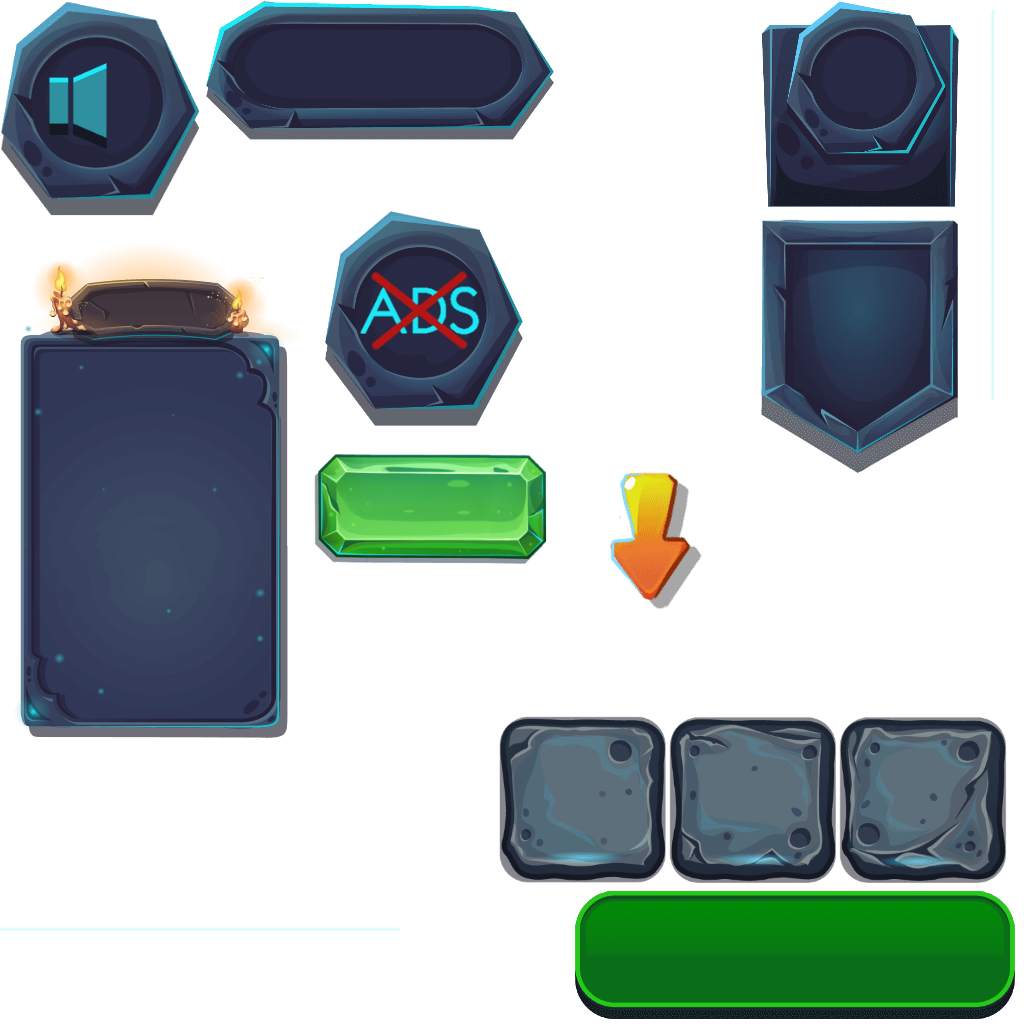
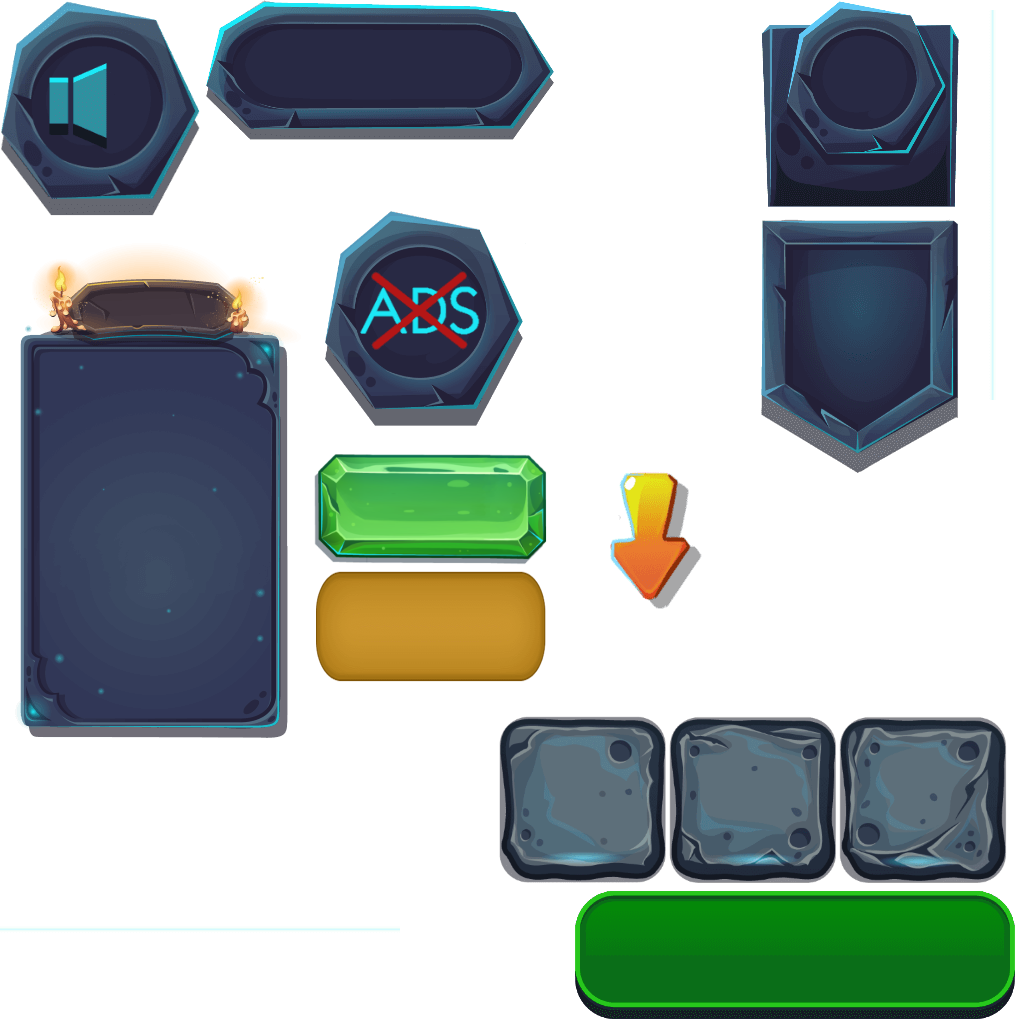
continue work with update tasks

Changed region(s): [[0.2812, 0.5312, 0.5312, 0.6875]]

diff --git a/core/src/com/merge/game/scenes/SceneGame.java b/core/src/com/merge/game/scenes/SceneGame.java
@@ -21,6 +21,8 @@ import com.merge.game.resources.GameSound;
 import com.merge.game.resources.textures.TextureItems;
 import com.merge.game.resources.textures.Textures;
 
+import java.util.ArrayList;
+
 public class SceneGame extends Scene {
 
     private static final int GRID_COUNT_WIDTH = 9;
@@ -194,20 +196,22 @@ public class SceneGame extends Scene {
     }
 
     private void updateTaskPanel(){
+
         for (int i = 0; i < _leftPanel.getTasks().size(); i++) {
+
             TaskArea area = _leftPanel.getTasks().get(i);
 
-            //кнопка неактивна
-            area.inactiveButton();
+            area.update();
+            ArrayList <Task> addedTasks = area.getTaskPanel().getAddedTasks();
 
             //подсчёт количества подходящих для задания итемсов
             for (int j = 0; j < GRID_COUNT_WIDTH; j++) {
                 for (int k = 0; k < GRID_COUNT_HEIGHT; k++) {
                     if(_items[j][k] != null && _items[j][k].canBeMerge()){
-                        for (int l = 0; l < area.getTaskPanel().getAddedTasks().size(); l++) {
-                            if(area.getTaskPanel().getAddedTasks().get(l).exists(_items[j][k])){
-                                area.getTaskPanel().getAddedTasks().get(l).existsCount++;
-                                area.getTaskPanel().getAddedTasks().get(l).itemsToRemove.add((_items[j][k]);
+                        for (int l = 0; l < addedTasks.size(); l++) {
+                            if(addedTasks.get(l).exists(_items[j][k])){
+                                addedTasks.get(l).existsCount++;
+                                addedTasks.get(l).itemsToRemove.add((_items[j][k]));
                             }
                         }
                     }
@@ -215,8 +219,8 @@ public class SceneGame extends Scene {
             }
 
             //проверка количества имеющихся на поле итемсов
-            for (int j = 0; j < area.getTaskPanel().getAddedTasks().size(); j++) {
-                if(area.getTaskPanel().getAddedTasks().get(j).existsCount >= area.getTaskPanel().getAddedTasks().get(j).count){
+            for (int j = 0; j < addedTasks.size(); j++) {
+                if(addedTasks.get(j).existsCount >= addedTasks.get(j).count){
                     area.inactiveButton();
                 }else {
                     area.activeButton();
@@ -225,8 +229,8 @@ public class SceneGame extends Scene {
 
             if(area.buttonIsPressed()){
                 //убираем с поля итемсы из задания
-                for (int j = 0; j < area.getTaskPanel().getAddedTasks().size(); j++) {
-                    Task currentTask = area.getTaskPanel().getAddedTasks().get(i);
+                for (int j = 0; j < addedTasks.size(); j++) {
+                    Task currentTask = addedTasks.get(i);
                     for (int k = 0; k < currentTask.count; k++) {
                         GridObject itemToRemove = currentTask.itemsToRemove.get(j);
                         removeChild(itemToRemove);
@@ -235,7 +239,7 @@ public class SceneGame extends Scene {
                 }
 
                 //меняем задание
-                generateTask();
+                area.generateTask();
 
                 //подсчитываем баллы
                 //scoreCount ++;

diff --git a/core/src/com/merge/game/objects/gui/elements/panels/TaskArea.java b/core/src/com/merge/game/objects/gui/elements/panels/TaskArea.java
@@ -3,12 +3,13 @@ package com.merge.game.objects.gui.elements.panels;
 import com.merge.game.objects.DisplayObject;
 import com.merge.game.objects.game_elements.Task;
 import com.merge.game.objects.gui.elements.Button;
+import com.merge.game.objects.gui.elements.buttons.TaskButton;
 import com.merge.game.resources.textures.TextureItems;
 
 public class TaskArea extends DisplayObject {
 
     TaskPanel taskPanel;
-    Button taskButton;
+    TaskButton taskButton;
 
     public void init(int count) {
         setSizeOfParent();
@@ -26,6 +27,18 @@ public class TaskArea extends DisplayObject {
         return taskButton;
     }
 
+    public void generateTask(){
+        initTaskPanel();
+    }
+
+    public void update(){
+        for (int i = 0; i < this.getTaskPanel().getAddedTasks().size(); i++) {
+            this.getTaskPanel().getAddedTasks().get(i).existsCount = 0;
+            this.getTaskPanel().getAddedTasks().get(i).itemsToRemove.clear();
+        }
+        inactiveButton();
+    }
+
     private void initTaskPanel() {
         taskPanel = new TaskPanel(TextureItems.taskField);
         addChild(taskPanel);
@@ -33,19 +46,17 @@ public class TaskArea extends DisplayObject {
     }
 
     private void initTaskButton() {
-        taskButton = new Button(TextureItems.taskButton);
+        taskButton = new TaskButton();
         addChild(taskButton);
-        taskButton.scaleToFit(0.25f, 0.25f);
-        taskButton.setCenterCoeff(0.5f, 0.5f);
-        taskButton.setY(taskPanel.y + taskPanel.getHeight() + 0.05f); //TODO исправить на coeff
+        taskButton.init();
     }
 
     public void inactiveButton() {
-        taskButton.setDisabled(true);
+        taskButton.setDisabled();
     }
 
     public void activeButton() {
-        taskButton.setDisabled(false);
+        taskButton.setAbled();
     }
 
     public boolean buttonIsPressed() {

diff --git a/core/src/com/merge/game/objects/gui/elements/buttons/TaskButton.java b/core/src/com/merge/game/objects/gui/elements/buttons/TaskButton.java
@@ -1,0 +1,30 @@
+package com.merge.game.objects.gui.elements.buttons;
+
+import com.merge.game.objects.gui.elements.Button;
+import com.merge.game.objects.gui.elements.panels.TaskArea;
+import com.merge.game.resources.textures.TextureItems;
+
+public class TaskButton extends Button {
+
+    public TaskButton() {
+        super(TextureItems.taskAbledButton);
+    }
+
+    public void init() {
+        scaleToFit(0.25f, 0.25f);
+        setCenterCoeff(0.5f, 0.5f);
+        setY(((TaskArea) this.parent).getTaskPanel().y + ((TaskArea) this.parent).getTaskPanel().getHeight() + 0.05f); //TODO исправить на coeff
+        setDisabled();
+
+    }
+
+    public void setAbled(){
+        setTexture(TextureItems.taskAbledButton);
+        _isDisabled = false;
+    }
+
+    public void setDisabled(){
+        setTexture(TextureItems.taskDisabledButton);
+        _isDisabled = true;
+    }
+}

diff --git a/core/src/com/merge/game/resources/textures/TextureItems.java b/core/src/com/merge/game/resources/textures/TextureItems.java
@@ -5,7 +5,7 @@ import com.badlogic.gdx.graphics.g2d.TextureRegion;
 
 public class TextureItems {
 
-    public static TextureRegion buttonStart, generateKettle, score, gold, level, trash, taskField, taskButton;
+    public static TextureRegion buttonStart, generateKettle, score, gold, level, trash, taskField, taskAbledButton, taskDisabledButton;
     public static TextureRegion[] gridCell, kettle1, kettle2, kettle3, kettle4, kettle5;
 
     public static void initItems(){
@@ -24,7 +24,8 @@ public class TextureItems {
         }
 
         taskField = new TextureRegion(texture, 198, 0, 367, 149);
-        taskButton = new TextureRegion(texture, 309, 448, 246, 121);
+        taskAbledButton = new TextureRegion(texture, 309, 448, 246, 121);
+        taskDisabledButton = new TextureRegion(texture, 316, 568, 231, 114);
     }
 
     private static void initMergeItems() {

diff --git a/core/src/com/merge/game/objects/gui/elements/Button.java b/core/src/com/merge/game/objects/gui/elements/Button.java
@@ -6,7 +6,11 @@ import com.merge.game.objects.DisplayObject;
 
 public class Button extends DisplayObject {
 
-    private boolean _isDisabled = false;
+    protected boolean _isDisabled = false;
+
+    public Button() {
+        super();
+    }
 
     public Button(Texture texture) {
         super(texture);
